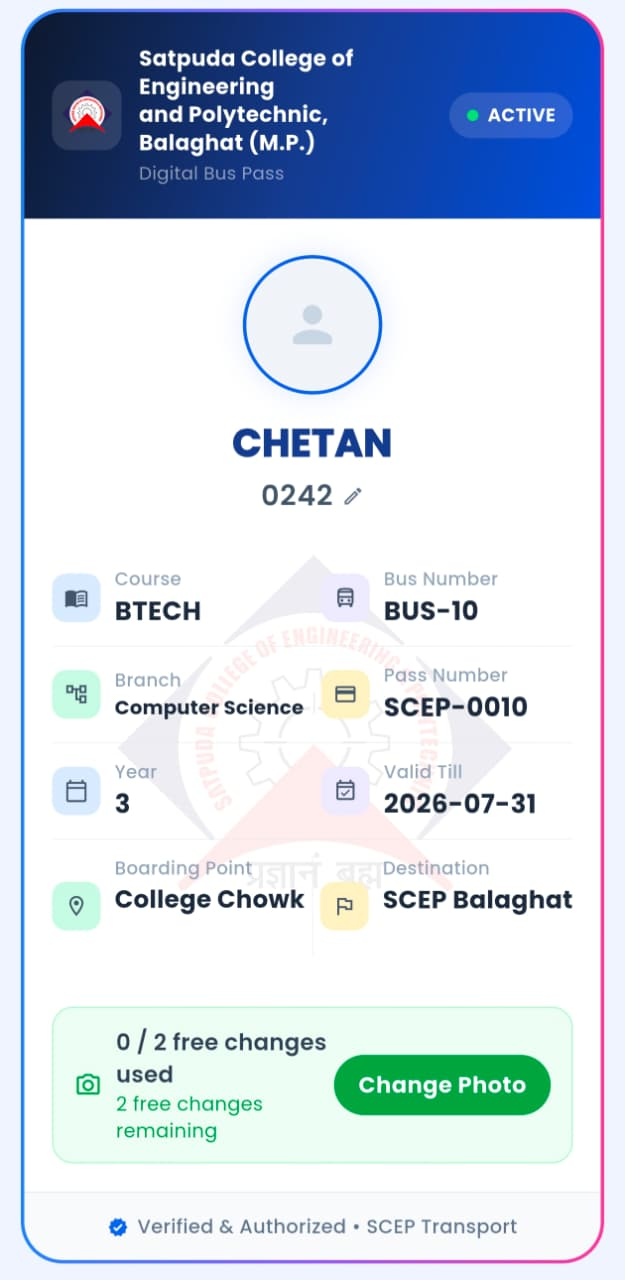
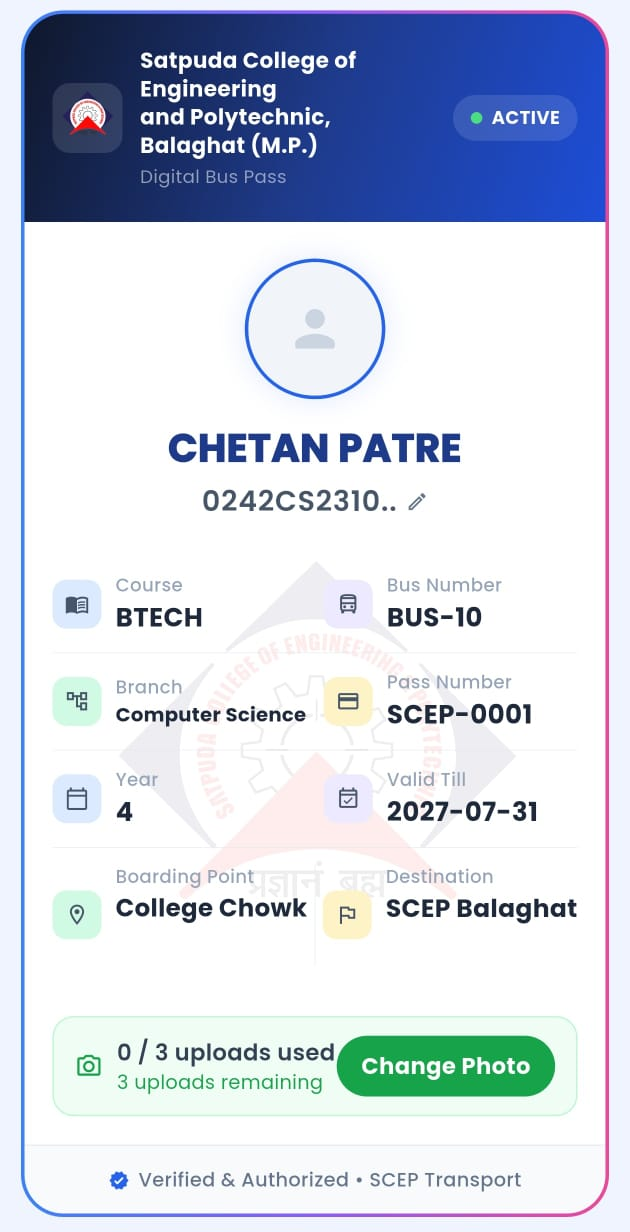
image

diff --git a/index.html b/index.html
@@ -302,7 +302,7 @@ button { cursor: pointer; border: none; font-family: inherit; }
     <div class="container hero-inner">
         <div class="hero-text">
             <span class="hero-badge">📍 Satpuda College, Balaghat (M.P.)</span>
-            <h1>SCEP Bus Tracking System</h1>
+            <h1>SCEP Bus Tracking Application</h1>
             <p>The official bus tracking application for Satpuda College of Engineering & Polytechnic. Track buses in real-time, manage digital passes, and stay connected with your campus transport.</p>
             <div class="hero-buttons">
                 <a href="apk/satpuda_bus.apk" download class="btn-primary">⬇ Download APK</a>
@@ -331,7 +331,7 @@ button { cursor: pointer; border: none; font-family: inherit; }
                     <li>Secure Firebase authentication</li>
                 </ul>
             </div>
-            <img src="assets/dashboard.jpeg" alt="Dashboard Preview">
+    
         </div>
     </div>
 </section>
@@ -382,11 +382,7 @@ button { cursor: pointer; border: none; font-family: inherit; }
                 <h3>Modern UI</h3>
                 <p>Clean, intuitive Material Design interface that's easy to navigate.</p>
             </div>
-            <div class="feature-card reveal">
-                <div class="feature-icon">✅</div>
-                <h3>Auto Attendance</h3>
-                <p>Automatic attendance marking when students board the bus with pass verification.</p>
-            </div>
+        
         </div>
     </div>
 </section>
